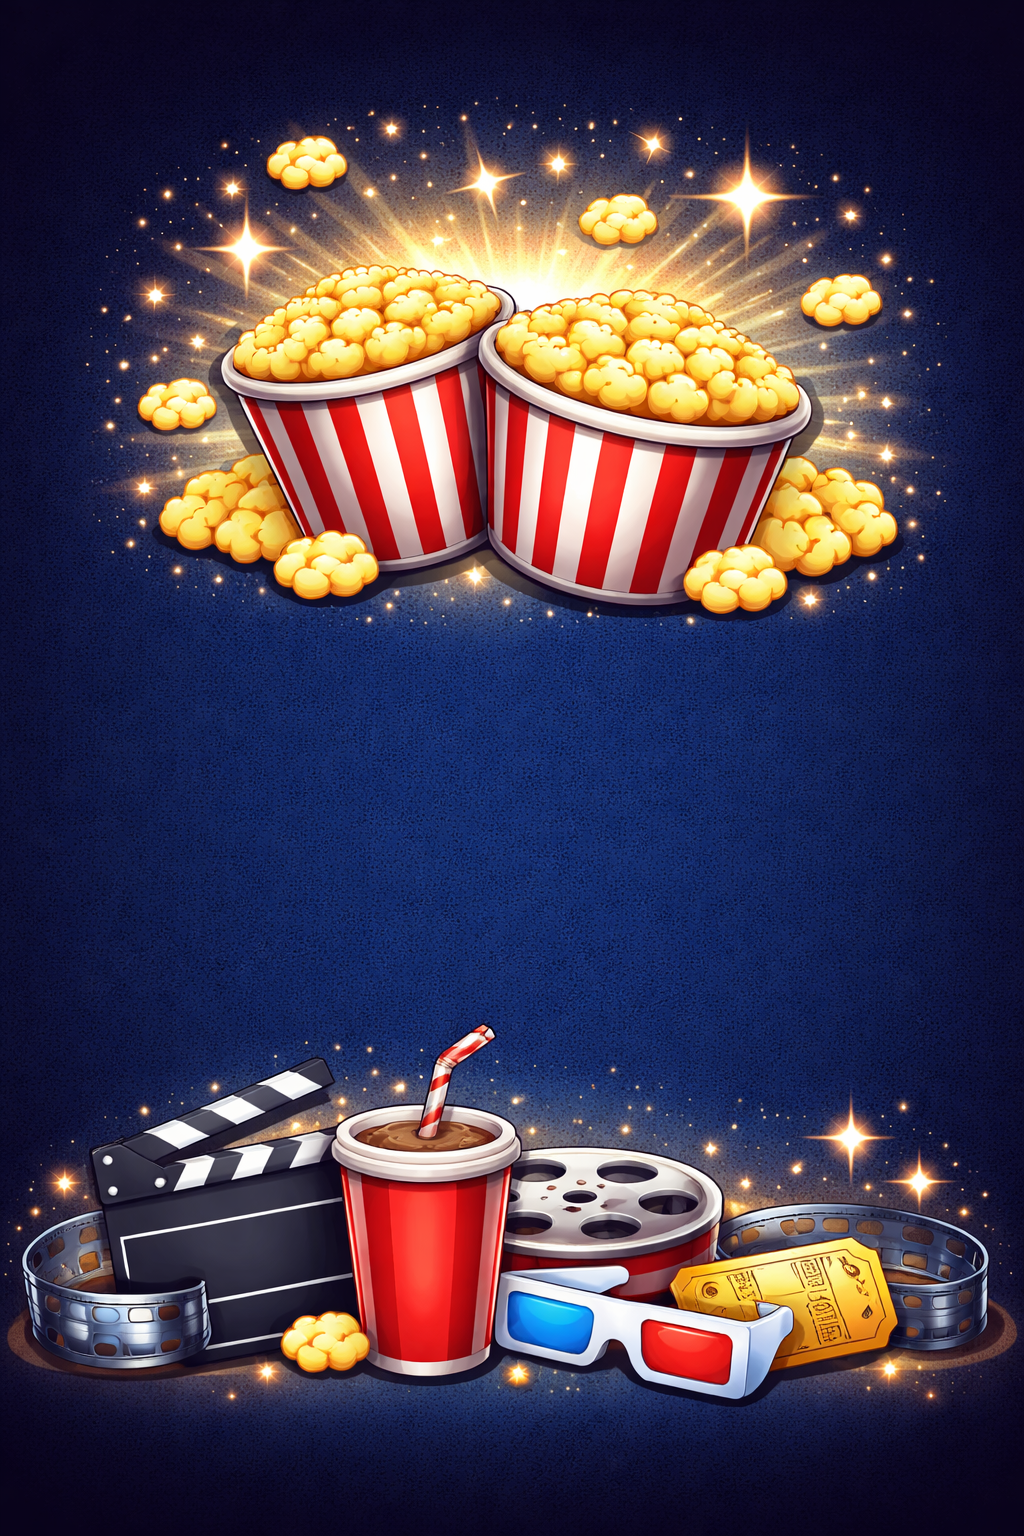
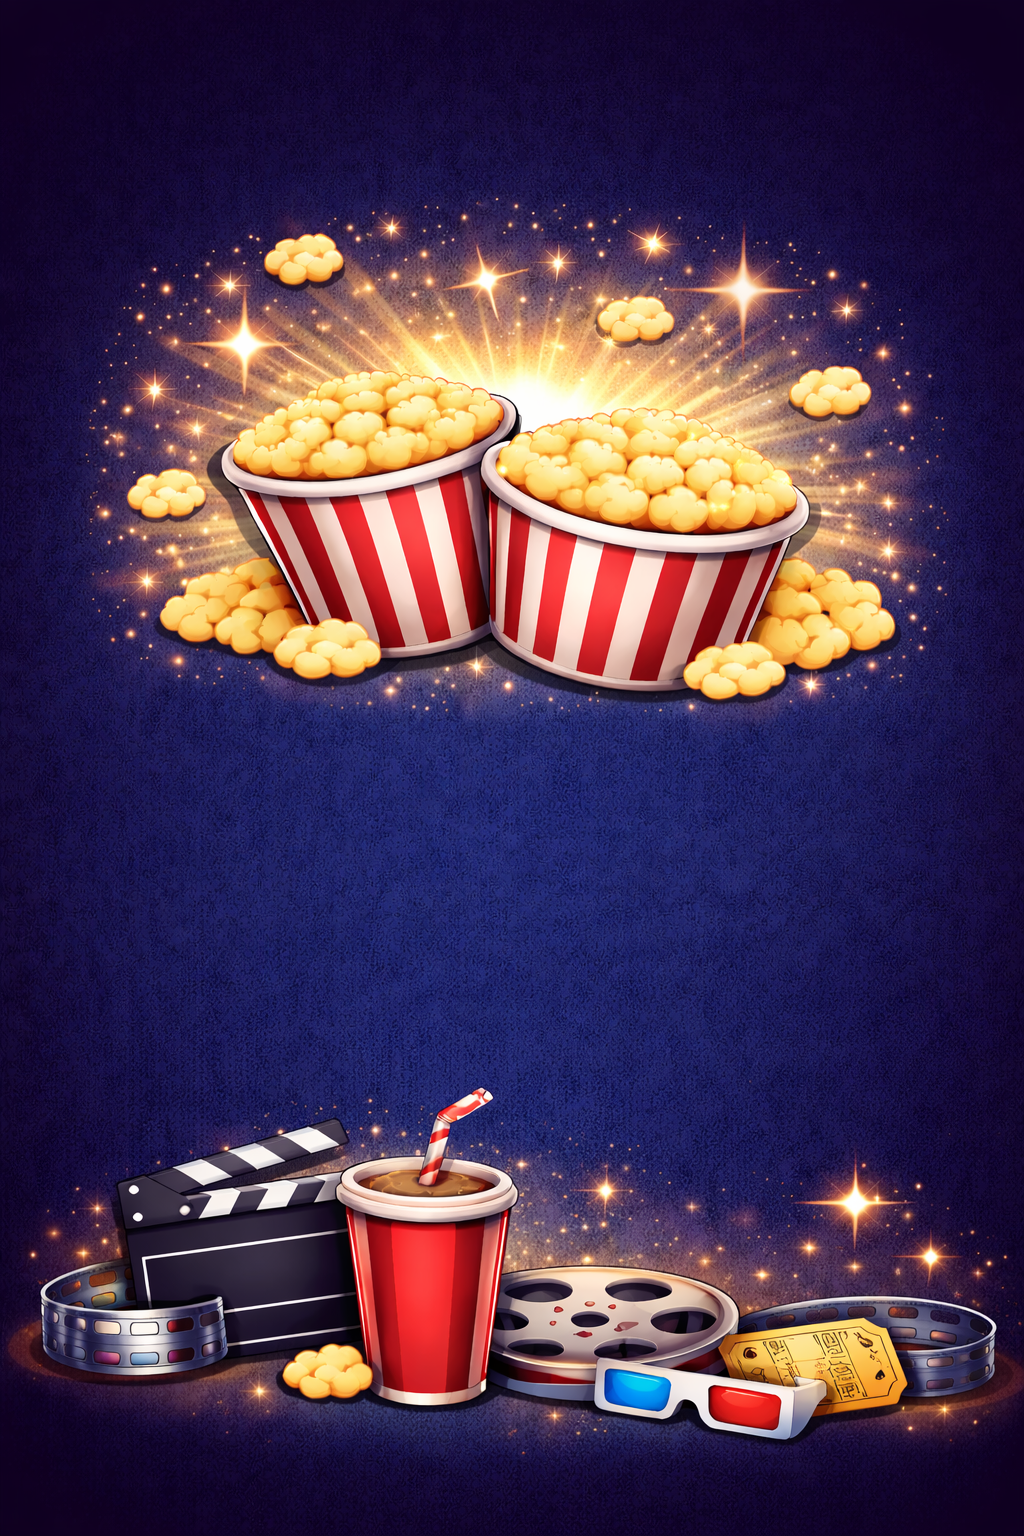
19.03.2026 14:24 Рабочий Thumbnail

diff --git a/lib/screens/video_list_screen.dart b/lib/screens/video_list_screen.dart
@@ -331,6 +331,222 @@ class _VideoListScreenState extends State<VideoListScreen> {
     );
   }
 
+  String _resolveThumbnail(Map<String, dynamic> video) {
+    final primary = video['thumbnail_url']?.toString().trim();
+    if (primary != null && primary.isNotEmpty) {
+      return primary;
+    }
+
+    final candidates = [
+      video['thumbnail'],
+      video['thumb_url'],
+      video['thumb'],
+      video['preview_url'],
+      video['preview'],
+      video['image_url'],
+      video['image'],
+      video['poster_url'],
+      video['poster'],
+      video['cover_url'],
+      video['cover'],
+    ];
+
+    for (final candidate in candidates) {
+      final value = candidate?.toString().trim() ?? '';
+      if (value.isNotEmpty) {
+        return value;
+      }
+    }
+
+    return '';
+  }
+
+  String _resolveOwner(Map<String, dynamic> video) {
+    final directCandidates = [
+      video['owner'],
+      video['owner_name'],
+      video['created_by'],
+      video['uploaded_by'],
+      video['author'],
+      video['username'],
+    ];
+
+    for (final candidate in directCandidates) {
+      final value = candidate?.toString().trim() ?? '';
+      if (value.isNotEmpty) {
+        return value;
+      }
+    }
+
+    final user = video['user'];
+    if (user is Map) {
+      final nestedCandidates = [
+        user['name'],
+        user['username'],
+        user['login'],
+        user['email'],
+      ];
+
+      for (final candidate in nestedCandidates) {
+        final value = candidate?.toString().trim() ?? '';
+        if (value.isNotEmpty) {
+          return value;
+        }
+      }
+    }
+
+    return '—';
+  }
+
+  Widget _buildVideoThumbnail(Map<String, dynamic> video, String duration) {
+    final thumbnailUrl = _resolveThumbnail(video);
+
+    return ClipRRect(
+      borderRadius: BorderRadius.circular(12),
+      child: Container(
+        width: 132,
+        height: 78,
+        color: Colors.white.withOpacity(0.06),
+        child: Stack(
+          children: [
+            Positioned.fill(
+              child: thumbnailUrl.isNotEmpty
+                  ? Image.network(
+                      thumbnailUrl,
+                      fit: BoxFit.cover,
+                      errorBuilder: (_, __, ___) {
+                        return const Center(
+                          child: Icon(
+                            Icons.video_library_outlined,
+                            color: Colors.white54,
+                            size: 28,
+                          ),
+                        );
+                      },
+                    )
+                  : const Center(
+                      child: Icon(
+                        Icons.video_library_outlined,
+                        color: Colors.white54,
+                        size: 28,
+                      ),
+                    ),
+            ),
+            Positioned(
+              right: 6,
+              bottom: 6,
+              child: Container(
+                padding: const EdgeInsets.symmetric(
+                  horizontal: 6,
+                  vertical: 3,
+                ),
+                decoration: BoxDecoration(
+                  color: Colors.black.withOpacity(0.75),
+                  borderRadius: BorderRadius.circular(8),
+                ),
+                child: Text(
+                  duration,
+                  style: const TextStyle(
+                    fontSize: 11,
+                    fontWeight: FontWeight.w600,
+                    color: Colors.white,
+                  ),
+                ),
+              ),
+            ),
+          ],
+        ),
+      ),
+    );
+  }
+
+  Widget _buildVideoItem(Map<String, dynamic> video) {
+    final id = video['id'];
+    final title = video['title']?.toString().trim();
+    final description = video['description']?.toString().trim() ?? '';
+    final uploadedAt = formatDateTime(video['uploaded_at']);
+    final duration = formatDuration(video['duration']);
+    final owner = _resolveOwner(video);
+
+    return InkWell(
+      borderRadius: BorderRadius.circular(16),
+      onTap: () {
+        final parsedId = id is int
+            ? id
+            : int.tryParse(
+                id?.toString() ?? '',
+              );
+        if (parsedId != null) {
+          openDetail(parsedId);
+        }
+      },
+      child: Padding(
+        padding: const EdgeInsets.symmetric(horizontal: 16, vertical: 10),
+        child: Row(
+          crossAxisAlignment: CrossAxisAlignment.start,
+          children: [
+            _buildVideoThumbnail(video, duration),
+            const SizedBox(width: 12),
+            Expanded(
+              child: Padding(
+                padding: const EdgeInsets.only(top: 2),
+                child: Column(
+                  crossAxisAlignment: CrossAxisAlignment.start,
+                  children: [
+                    Text(
+                      title != null && title.isNotEmpty
+                          ? title
+                          : 'Без названия',
+                      maxLines: 2,
+                      overflow: TextOverflow.ellipsis,
+                      style: const TextStyle(
+                        fontSize: 15,
+                        fontWeight: FontWeight.w600,
+                      ),
+                    ),
+                    if (description.isNotEmpty) ...[
+                      const SizedBox(height: 6),
+                      Text(
+                        description,
+                        maxLines: 2,
+                        overflow: TextOverflow.ellipsis,
+                        style: const TextStyle(
+                          color: Colors.white70,
+                          height: 1.3,
+                        ),
+                      ),
+                    ],
+                    const SizedBox(height: 8),
+                    Text(
+                      'Добавлено: $uploadedAt',
+                      style: const TextStyle(
+                        fontSize: 12,
+                        color: Colors.white54,
+                      ),
+                    ),
+                    const SizedBox(height: 2),
+                    Text(
+                      'Кем добавлено: $owner',
+                      style: const TextStyle(
+                        fontSize: 12,
+                        color: Colors.white54,
+                      ),
+                    ),
+                  ],
+                ),
+              ),
+            ),
+            const SizedBox(width: 4),
+            const Padding(
+              padding: EdgeInsets.only(top: 24),
+              child: Icon(Icons.chevron_right),
+            ),
+          ],
+        ),
+      ),
+    );
+  }
+
   Widget _buildDebugLogs() {
     final logs = NetworkLogBuffer.text;
 
@@ -450,61 +666,12 @@ class _VideoListScreenState extends State<VideoListScreen> {
                                   onRefresh: loadVideos,
                                   child: ListView.separated(
                                     itemCount: filtered.length,
-                                    separatorBuilder: (_, __) =>
-                                        const Divider(height: 1),
+                                    separatorBuilder: (_, __) => Divider(
+                                      height: 1,
+                                      color: Colors.white.withOpacity(0.06),
+                                    ),
                                     itemBuilder: (context, index) {
-                                      final video = filtered[index];
-                                      final id = video['id'];
-                                      final description = video['description']
-                                              ?.toString()
-                                              .trim() ??
-                                          '';
-                                      final uploadedAt =
-                                          formatDateTime(video['uploaded_at']);
-                                      final duration =
-                                          formatDuration(video['duration']);
-
-                                      return ListTile(
-                                        contentPadding:
-                                            const EdgeInsets.symmetric(
-                                          horizontal: 16,
-                                          vertical: 8,
-                                        ),
-                                        title: Text(
-                                          video['title']
-                                                      ?.toString()
-                                                      .trim()
-                                                      .isNotEmpty ==
-                                                  true
-                                              ? video['title'].toString()
-                                              : 'Без названия',
-                                        ),
-                                        subtitle: Column(
-                                          crossAxisAlignment:
-                                              CrossAxisAlignment.start,
-                                          children: [
-                                            if (description.isNotEmpty) ...[
-                                              const SizedBox(height: 6),
-                                              Text(description),
-                                            ],
-                                            const SizedBox(height: 8),
-                                            Text('Добавлено: $uploadedAt'),
-                                            Text('Длительность: $duration'),
-                                          ],
-                                        ),
-                                        trailing:
-                                            const Icon(Icons.chevron_right),
-                                        onTap: () {
-                                          final parsedId = id is int
-                                              ? id
-                                              : int.tryParse(
-                                                  id?.toString() ?? '',
-                                                );
-                                          if (parsedId != null) {
-                                            openDetail(parsedId);
-                                          }
-                                        },
-                                      );
+                                      return _buildVideoItem(filtered[index]);
                                     },
                                   ),
                                 ),

diff --git a/lib/repositories/video_repository.dart b/lib/repositories/video_repository.dart
@@ -134,8 +134,11 @@ class VideoRepository {
   Map<String, dynamic> _normalizeVideoMap(Map<String, dynamic> map) {
     final normalized = Map<String, dynamic>.from(map);
 
-    normalized['hls_url'] = _rewriteHlsUrl(
+    normalized['hls_url'] = _rewriteUrlWithOriginBase(
       normalized['hls_url']?.toString(),
+    );
+    normalized['thumbnail_url'] = _rewriteUrlWithOriginBase(
+      normalized['thumbnail_url']?.toString(),
     );
 
     return normalized;
@@ -144,14 +147,14 @@ class VideoRepository {
   Map<String, dynamic> _normalizePlaybackMap(Map<String, dynamic> map) {
     final normalized = Map<String, dynamic>.from(map);
 
-    normalized['hls_url'] = _rewriteHlsUrl(
+    normalized['hls_url'] = _rewriteUrlWithOriginBase(
       normalized['hls_url']?.toString(),
     );
 
     return normalized;
   }
 
-  String? _rewriteHlsUrl(String? rawUrl) {
+  String? _rewriteUrlWithOriginBase(String? rawUrl) {
     if (rawUrl == null || rawUrl.isEmpty) return rawUrl;
 
     final uri = Uri.tryParse(rawUrl);
